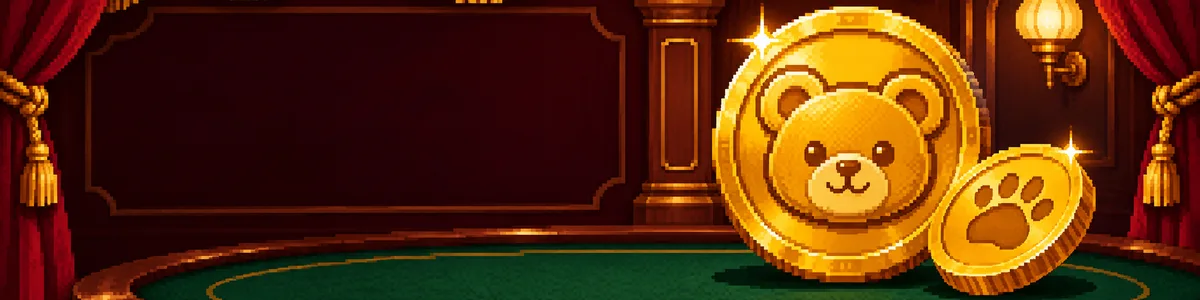
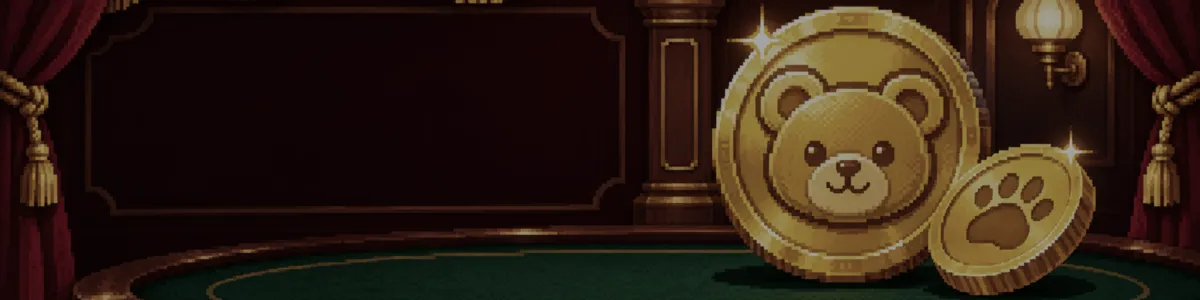
동전 던지기 배경을 다른 게임만큼 어둡고 차분하게
Claude-Session: https://claude.ai/code/session_01RqpauUbVCBK9CYvrYy1rK7

diff --git a/src/views/gamble.tsx b/src/views/gamble.tsx
@@ -36,7 +36,7 @@ const CARD_RANKS = ['A', '2', '3', '4', '5', '6', '7', '8', '9', '10', 'J', 'Q',
 // 나리가 그린 게임별 배경: 게임 방은 정사각형(room), 로비의 게임 고르기 칸은 가로로 긴 그림(lobby).
 // 게임 방에서 제일 크게 보이는 그림(먼저 받기 시작해요).
 const MAIN_ART: Record<Game, string> = { slot: 'slotFrame', roulette: 'wheel', cards: 'cardBack', coinflip: 'coinHeads' };
-const gameBackground = (game: Game, kind: 'room' | 'lobby') => `/gamble/bg/${game}-${kind}.webp?v=2`;
+const gameBackground = (game: Game, kind: 'room' | 'lobby') => `/gamble/bg/${game}-${kind}.webp?v=${game === 'coinflip' ? 3 : 2}`;
 
 function ArtLayer({ name }: { name: string }) {
   const image = GAMBLE_ART[name]?.image;
